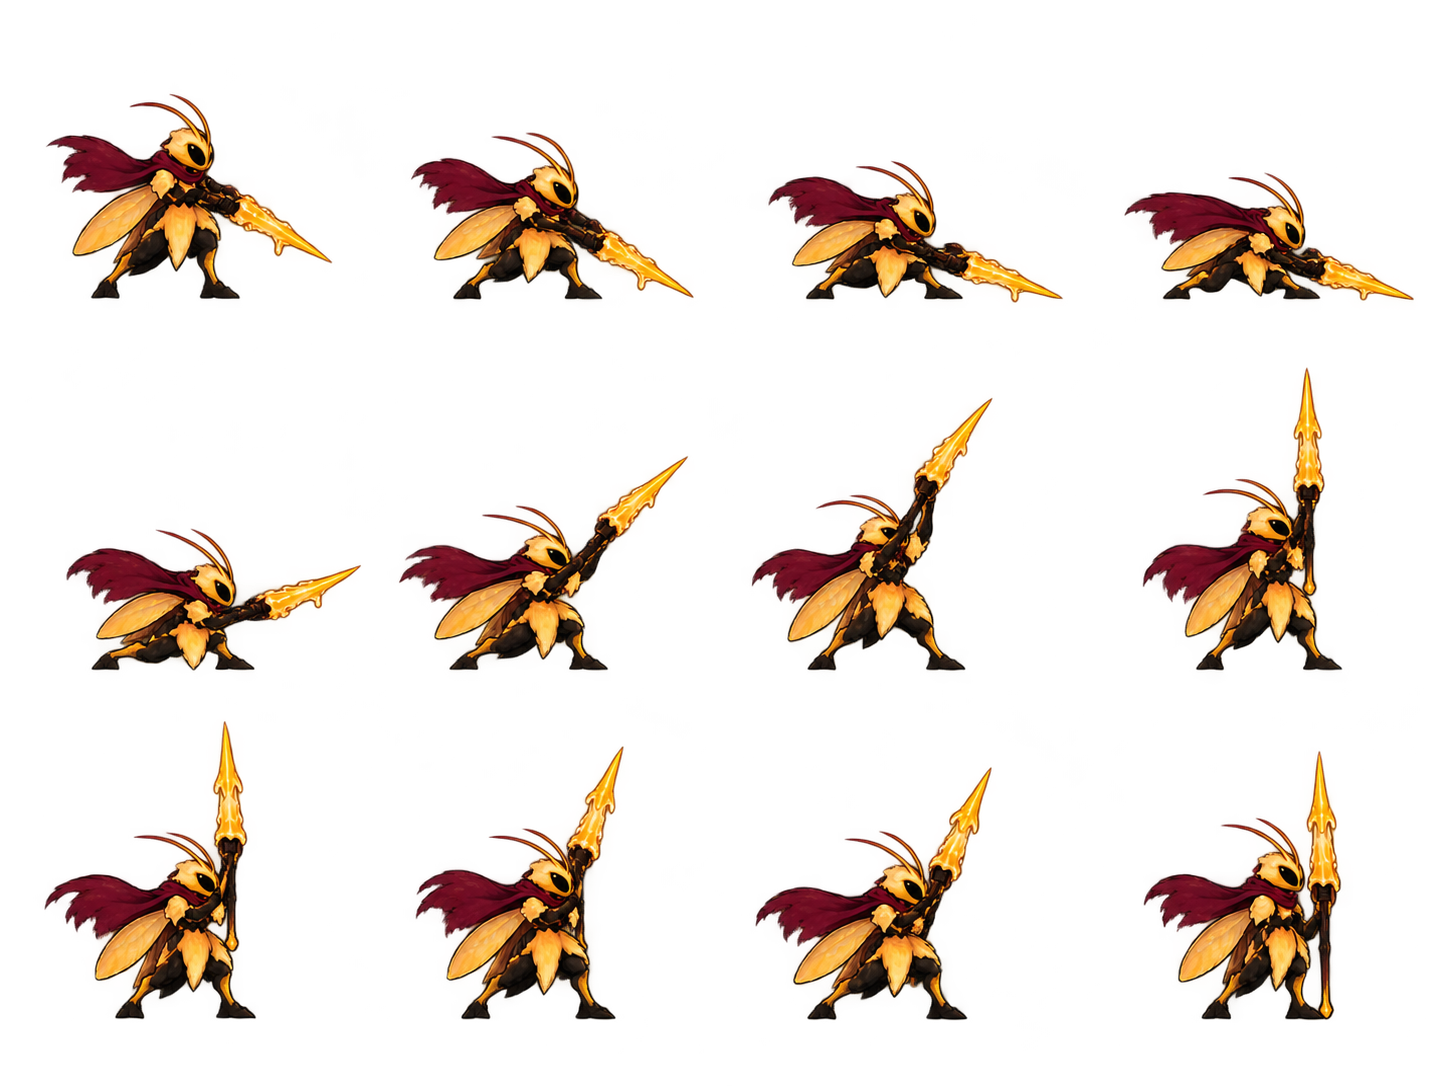
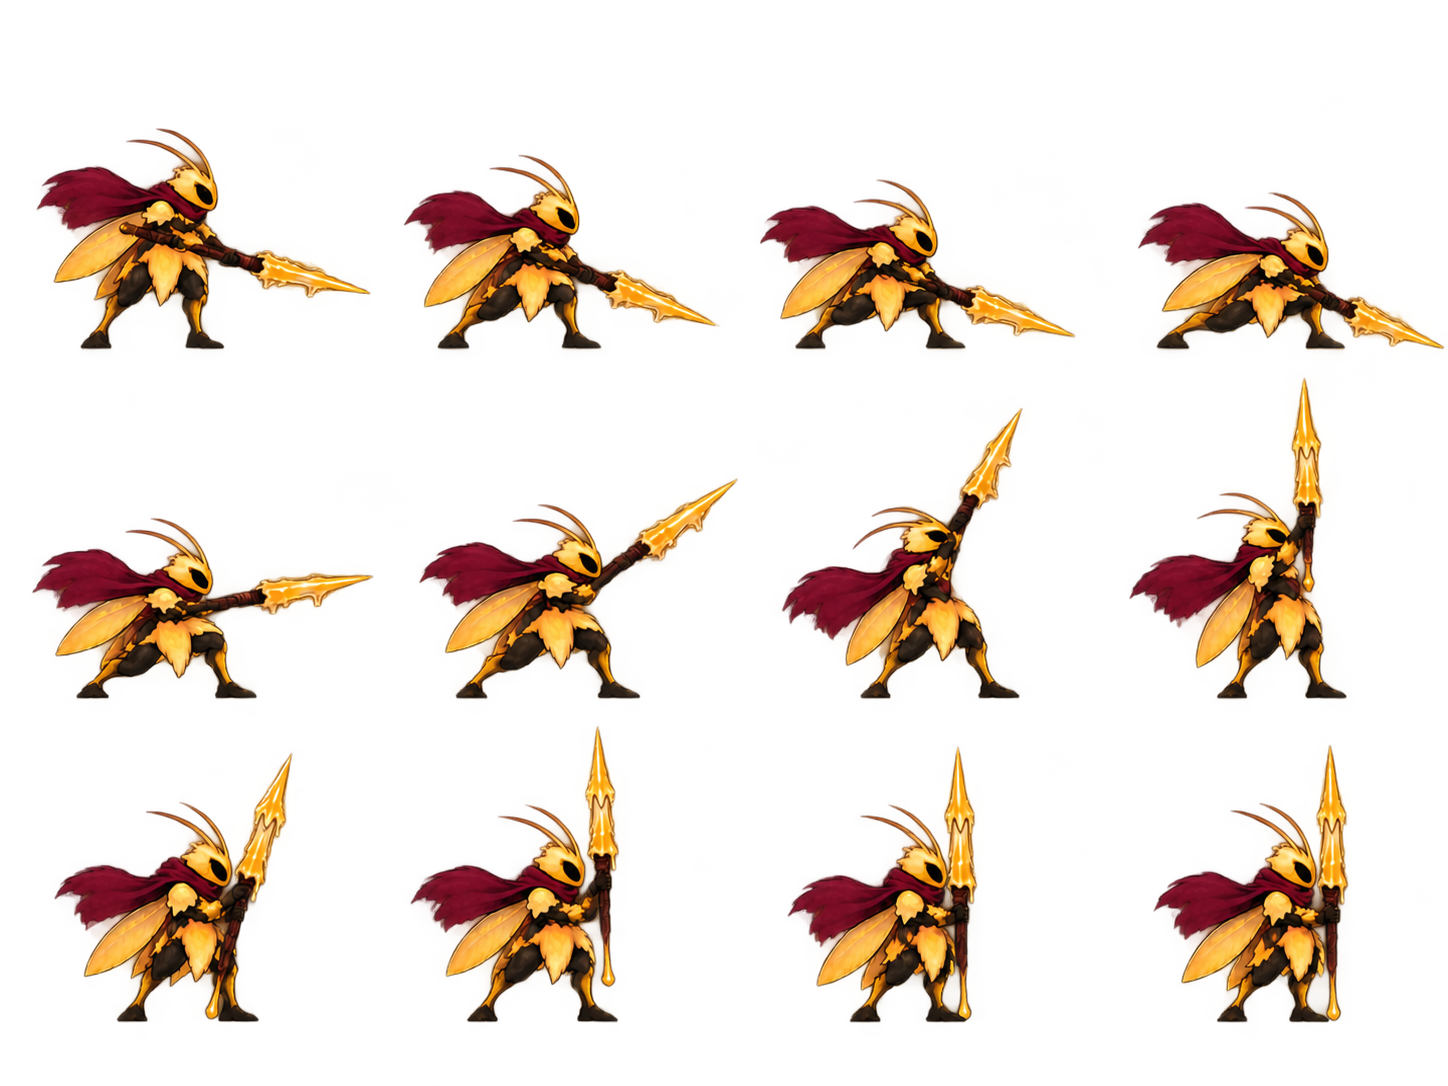
art: redraw wax lancer downward windup and rising recovery

diff --git a/art_requests/creature_attacks_v1/incoming/README.md b/art_requests/creature_attacks_v1/incoming/README.md
@@ -96,3 +96,5 @@
 重画记录（2026-10-18）：`wheel_elite_ride.png` — 以原参考和已认可的 wheel_return 为标尺，将轮盾缩为站立高度约一半，接地盾顶位于腰胸之间；保留 16 格并修正重复盾牌。
 
 重画记录（2026-10-18）：`bee_stingers.png` — 重画为大幅腹部下卷及前伸，第 5／7 格分别为两次明显腹刺前弹，第 6／8 格后坐；清除两格出招中多余的后向尾刺，保留 14 格。
+
+重画记录（2026-10-18）：`wax_high.png` — 重画前四格前摇，枪尖明显低于双手并压到前脚脚底线附近；出招逐步上挑，收招四格恢复竖枪，保留 12 格。
